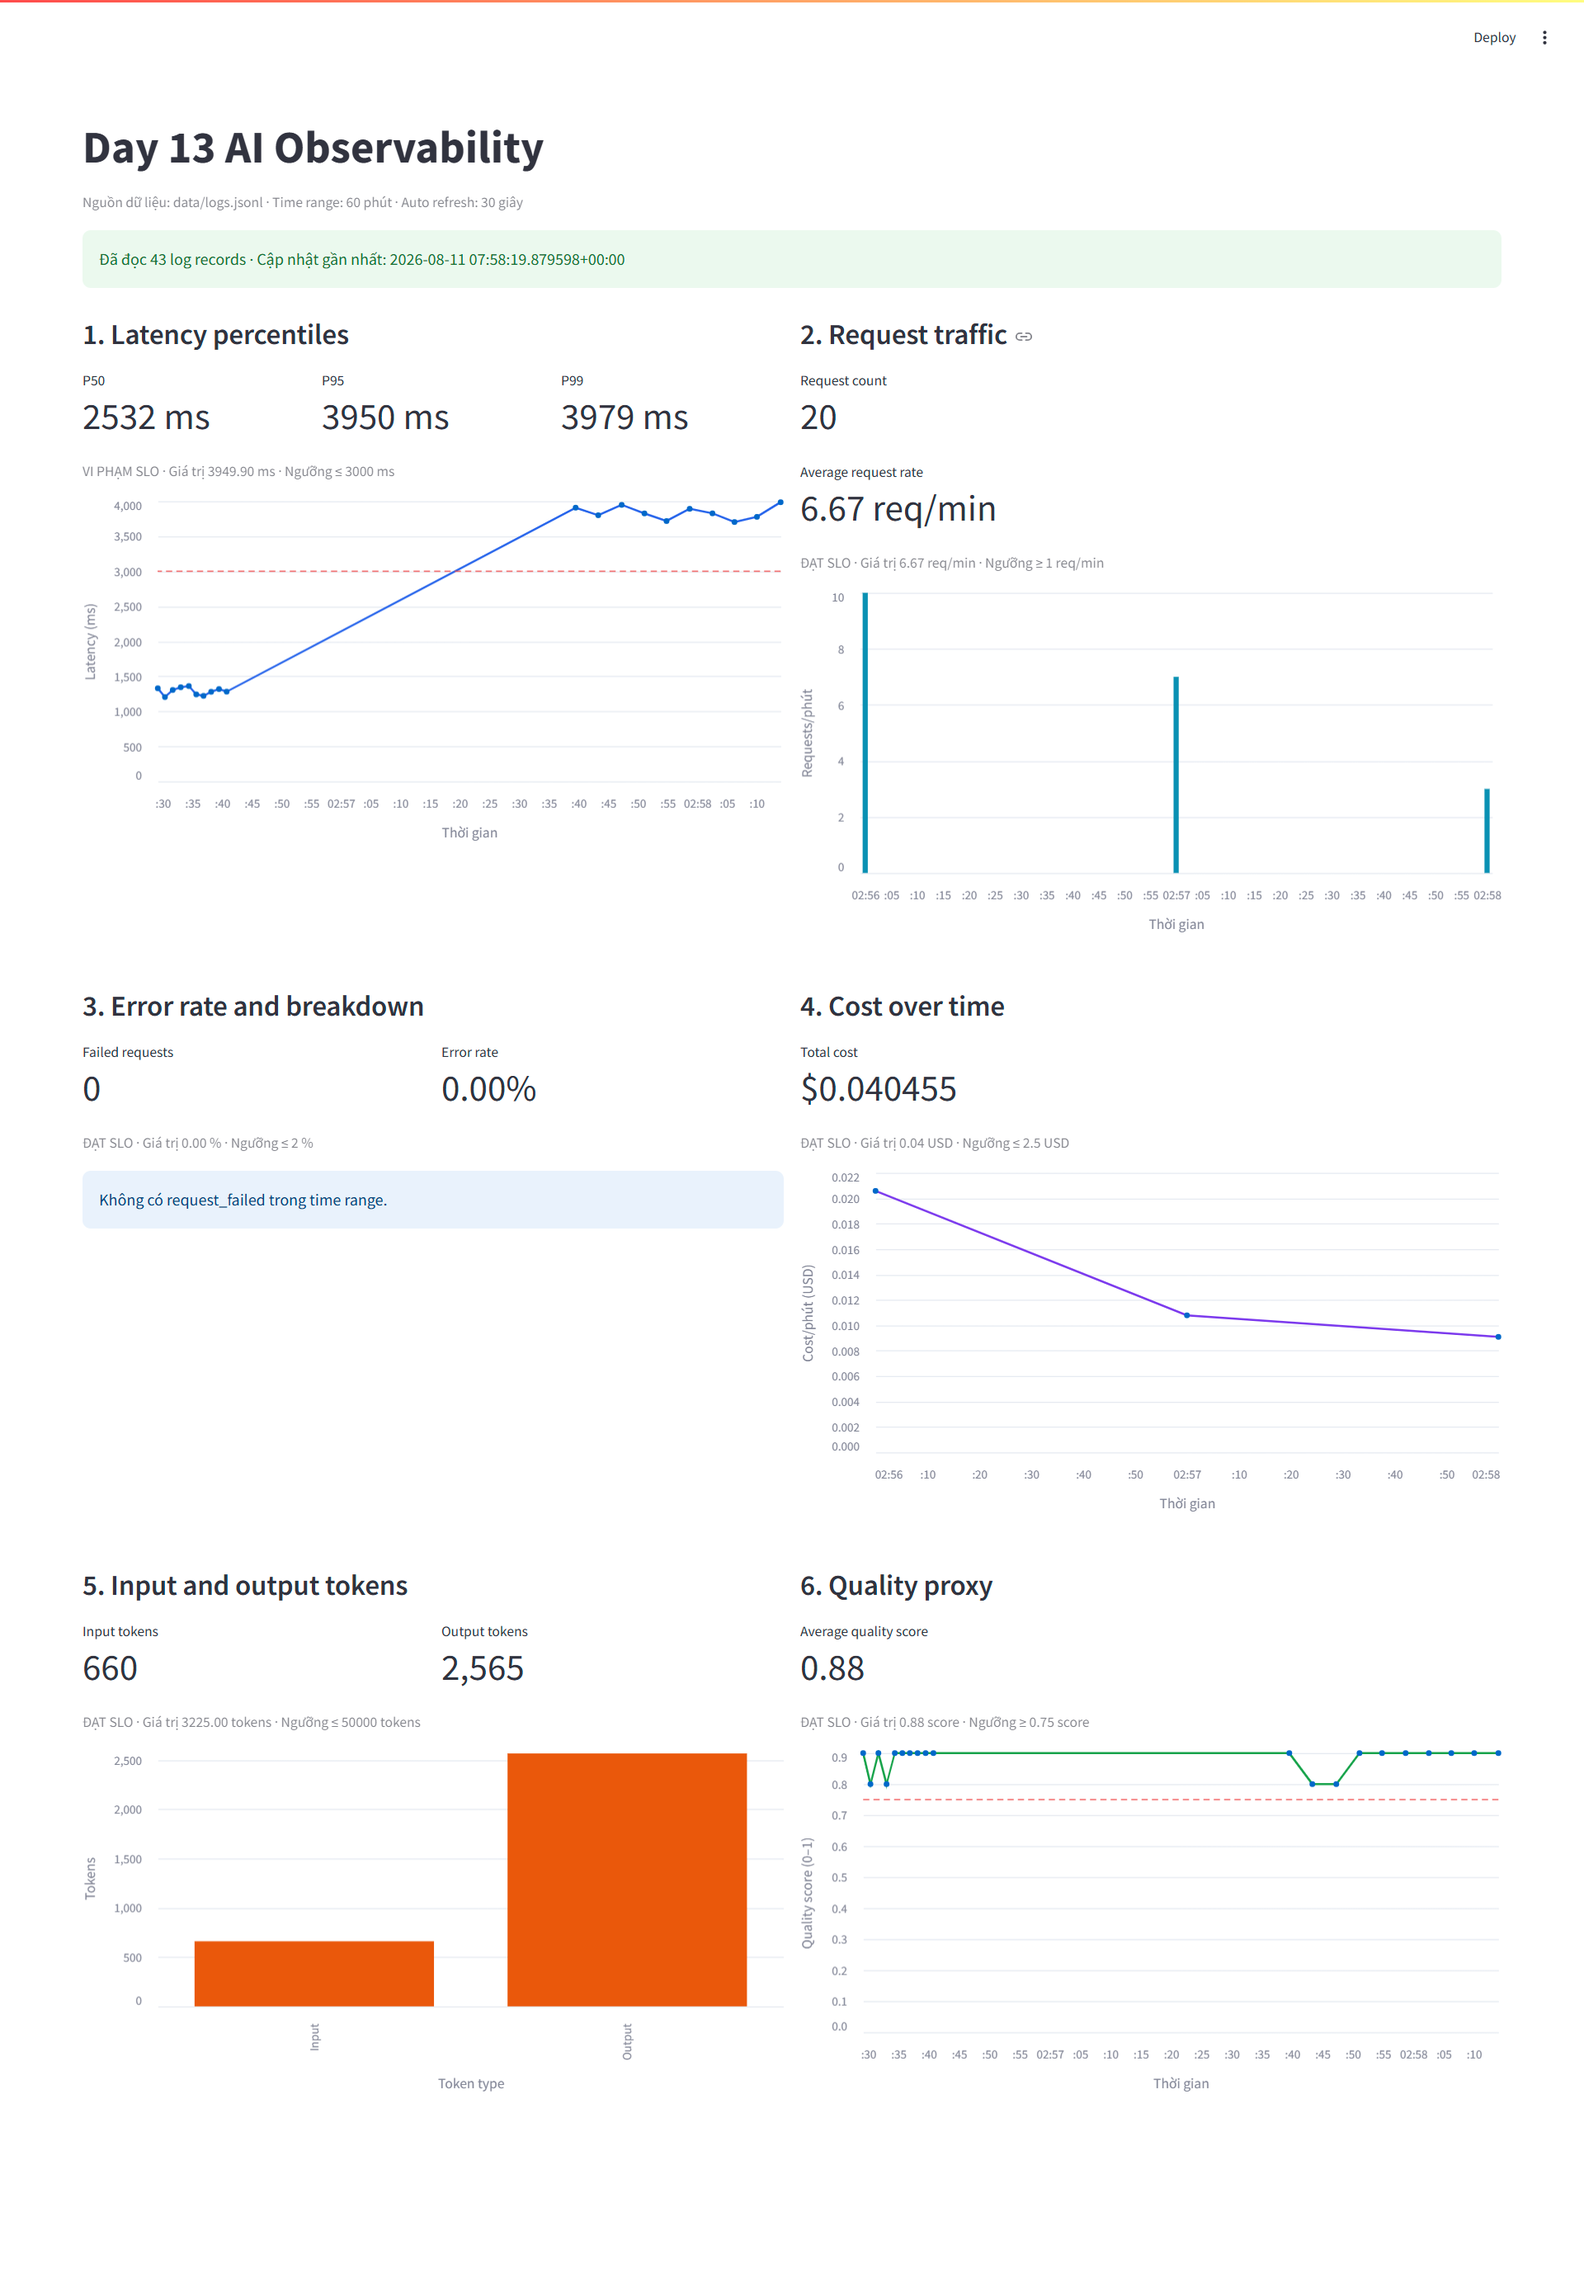
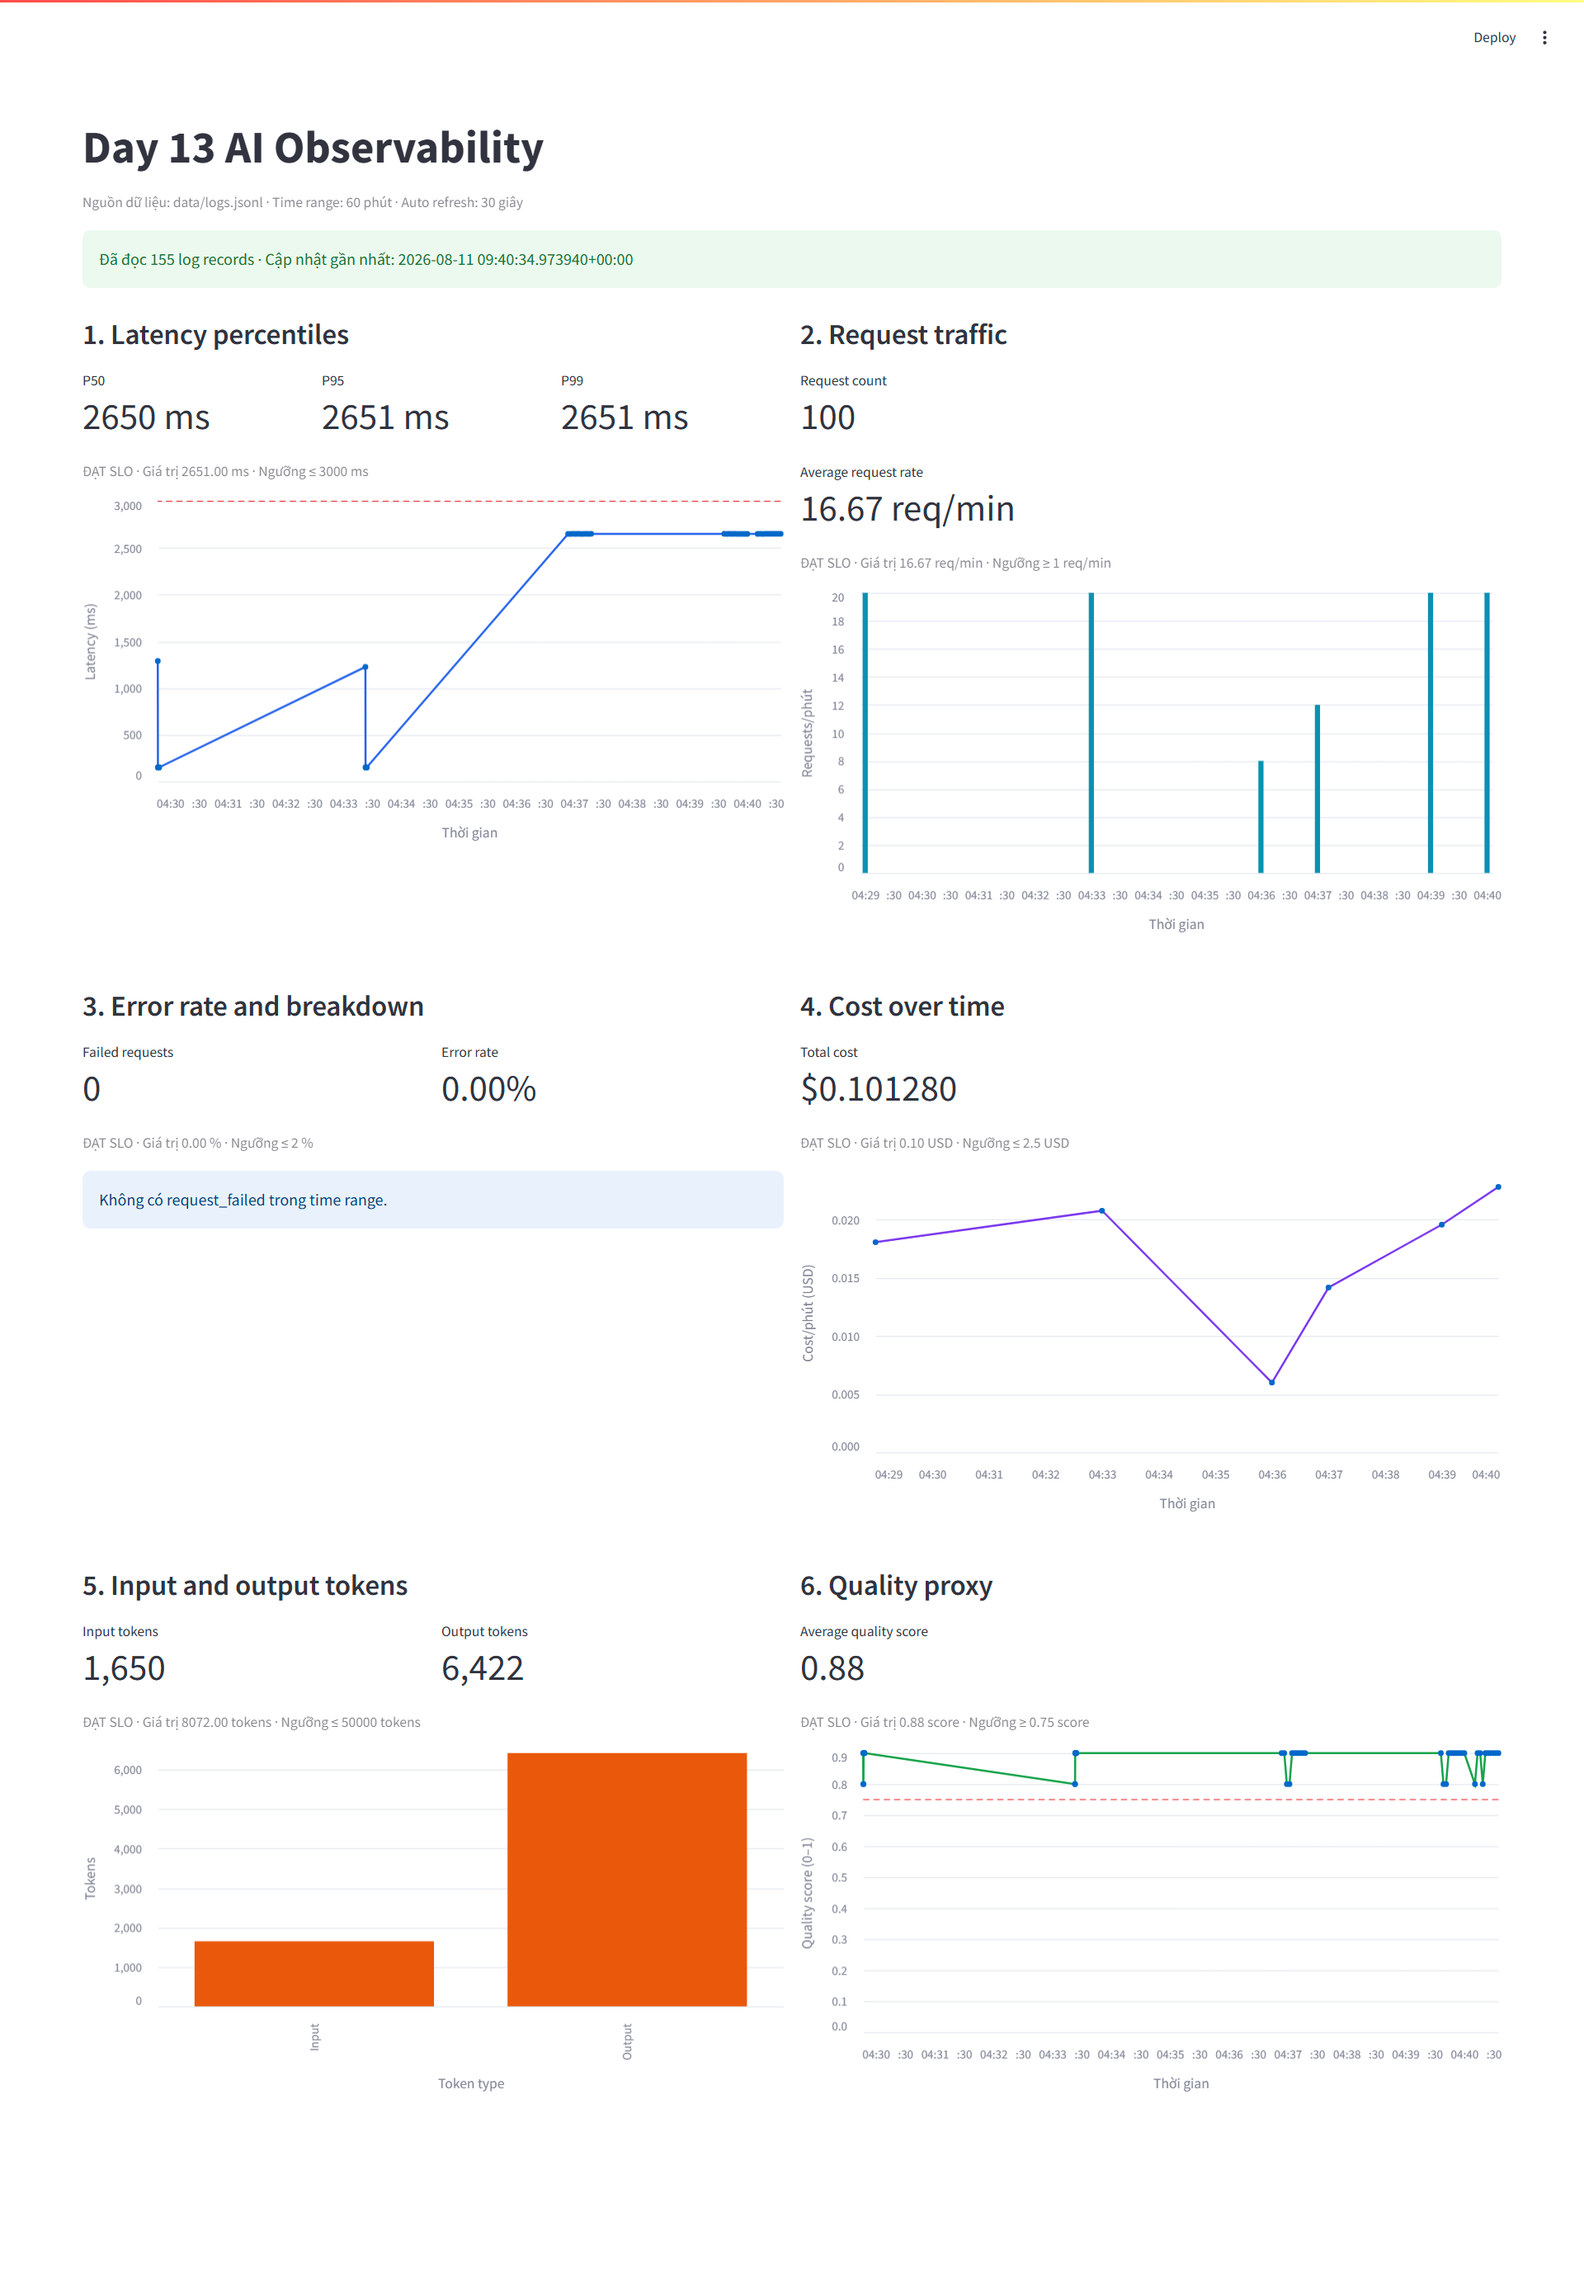
add evidence

diff --git a/app/pii.py b/app/pii.py
@@ -5,7 +5,7 @@ import re
 
 PII_PATTERNS: dict[str, str] = {
     "email": r"[\w\.-]+@[\w\.-]+\.\w+",
-    "phone_vn": r"(?:\+84|0)[ \.-]?\d{3}[ \.-]?\d{3}[ \.-]?\d{3,4}",
+    "phone_vn": r"(?:\+84[\s.-]?|0)\d{2}[\s.-]?\d{3}[\s.-]?\d{4}",
     "cccd": r"\b\d{12}\b",
     "credit_card": r"\b\d{4}[- ]?\d{4}[- ]?\d{4}[- ]?\d{4}\b",
     # Thêm patterns mới:

diff --git a/submission/REPORT.md b/submission/REPORT.md
@@ -32,7 +32,8 @@
 ## 5. Dashboard, SLO và alerts
 
 - Kết quả `validate_dashboard.py`: HỢP LỆ 6/6 panel.
-- Evidence dashboard: `submission/evidence/dashboard-baseline.png`
+- Evidence validator: `submission/evidence/dashboard-validator.png`
+- Evidence baseline: `submission/evidence/dashboard-baseline.png`
 - Evidence incident: `submission/evidence/dashboard-rag-slow.png`
 
 ### SLO đã chọn
